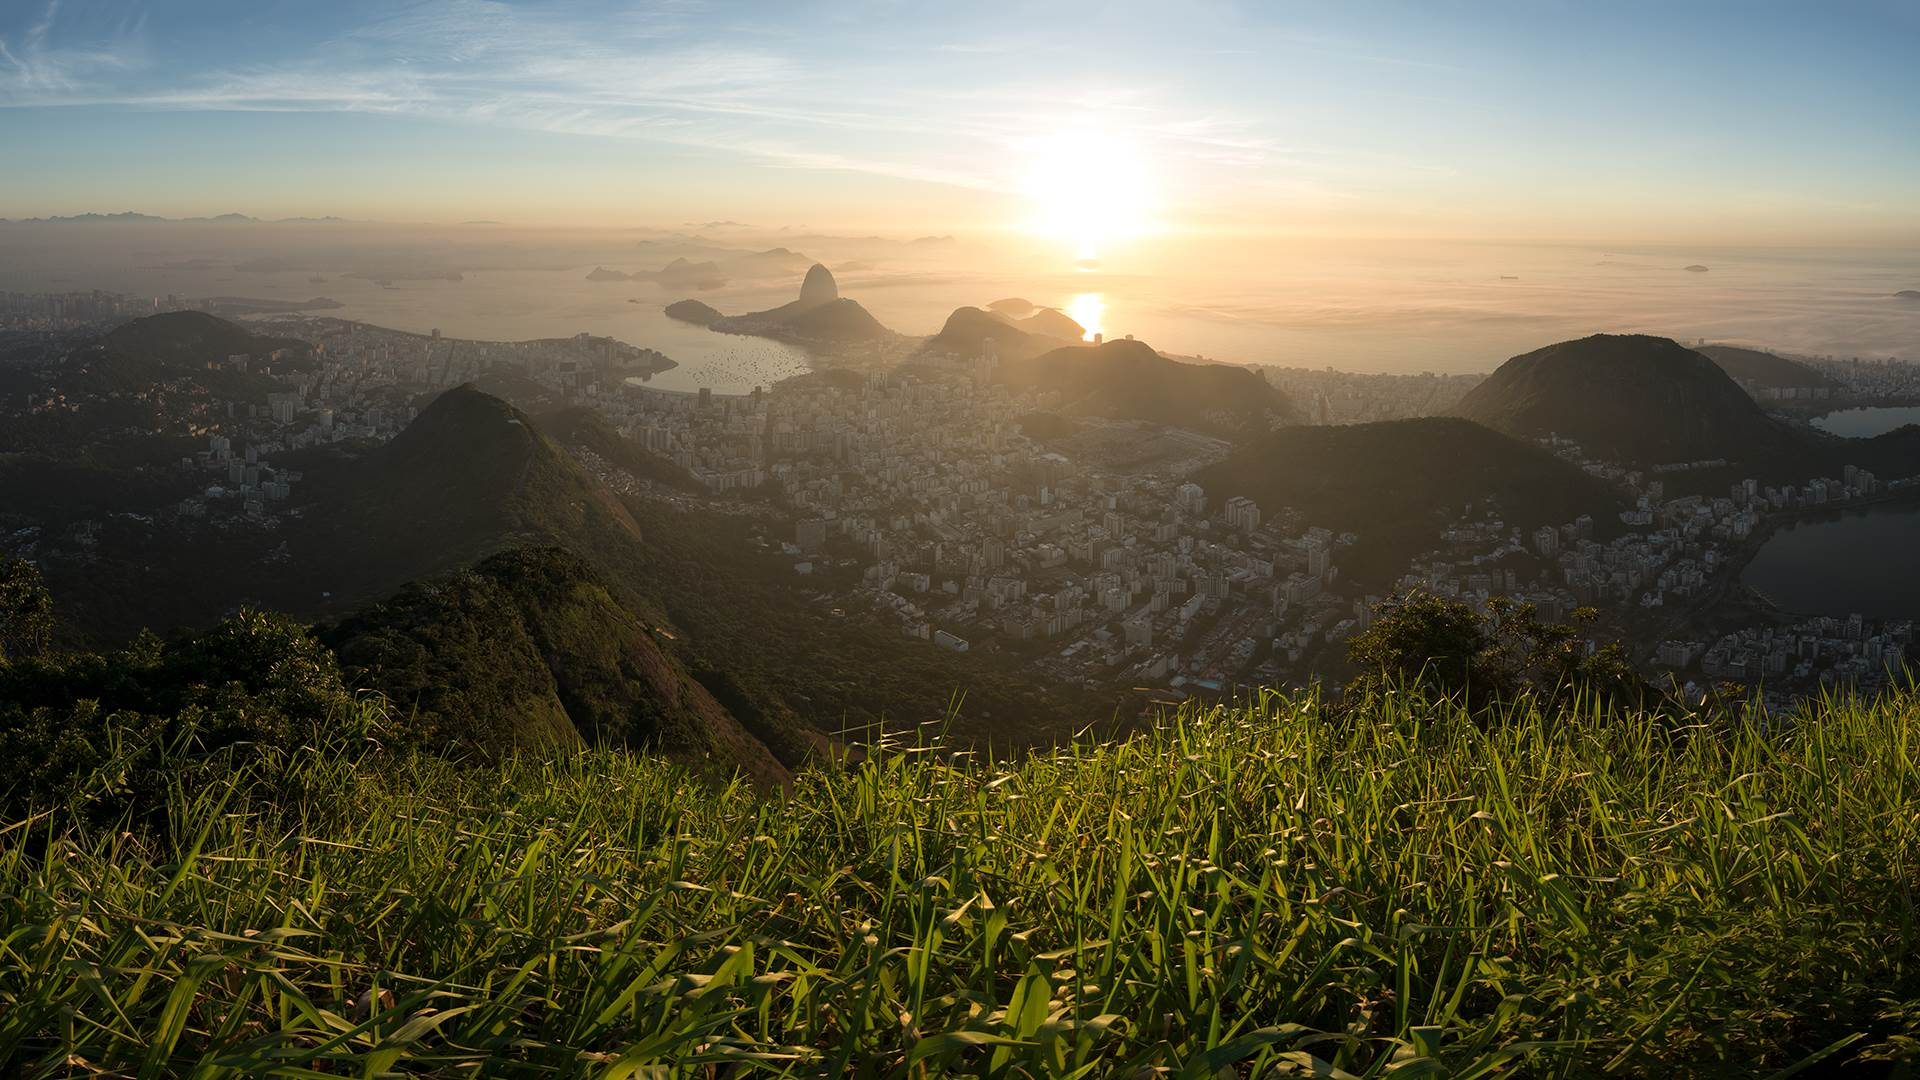
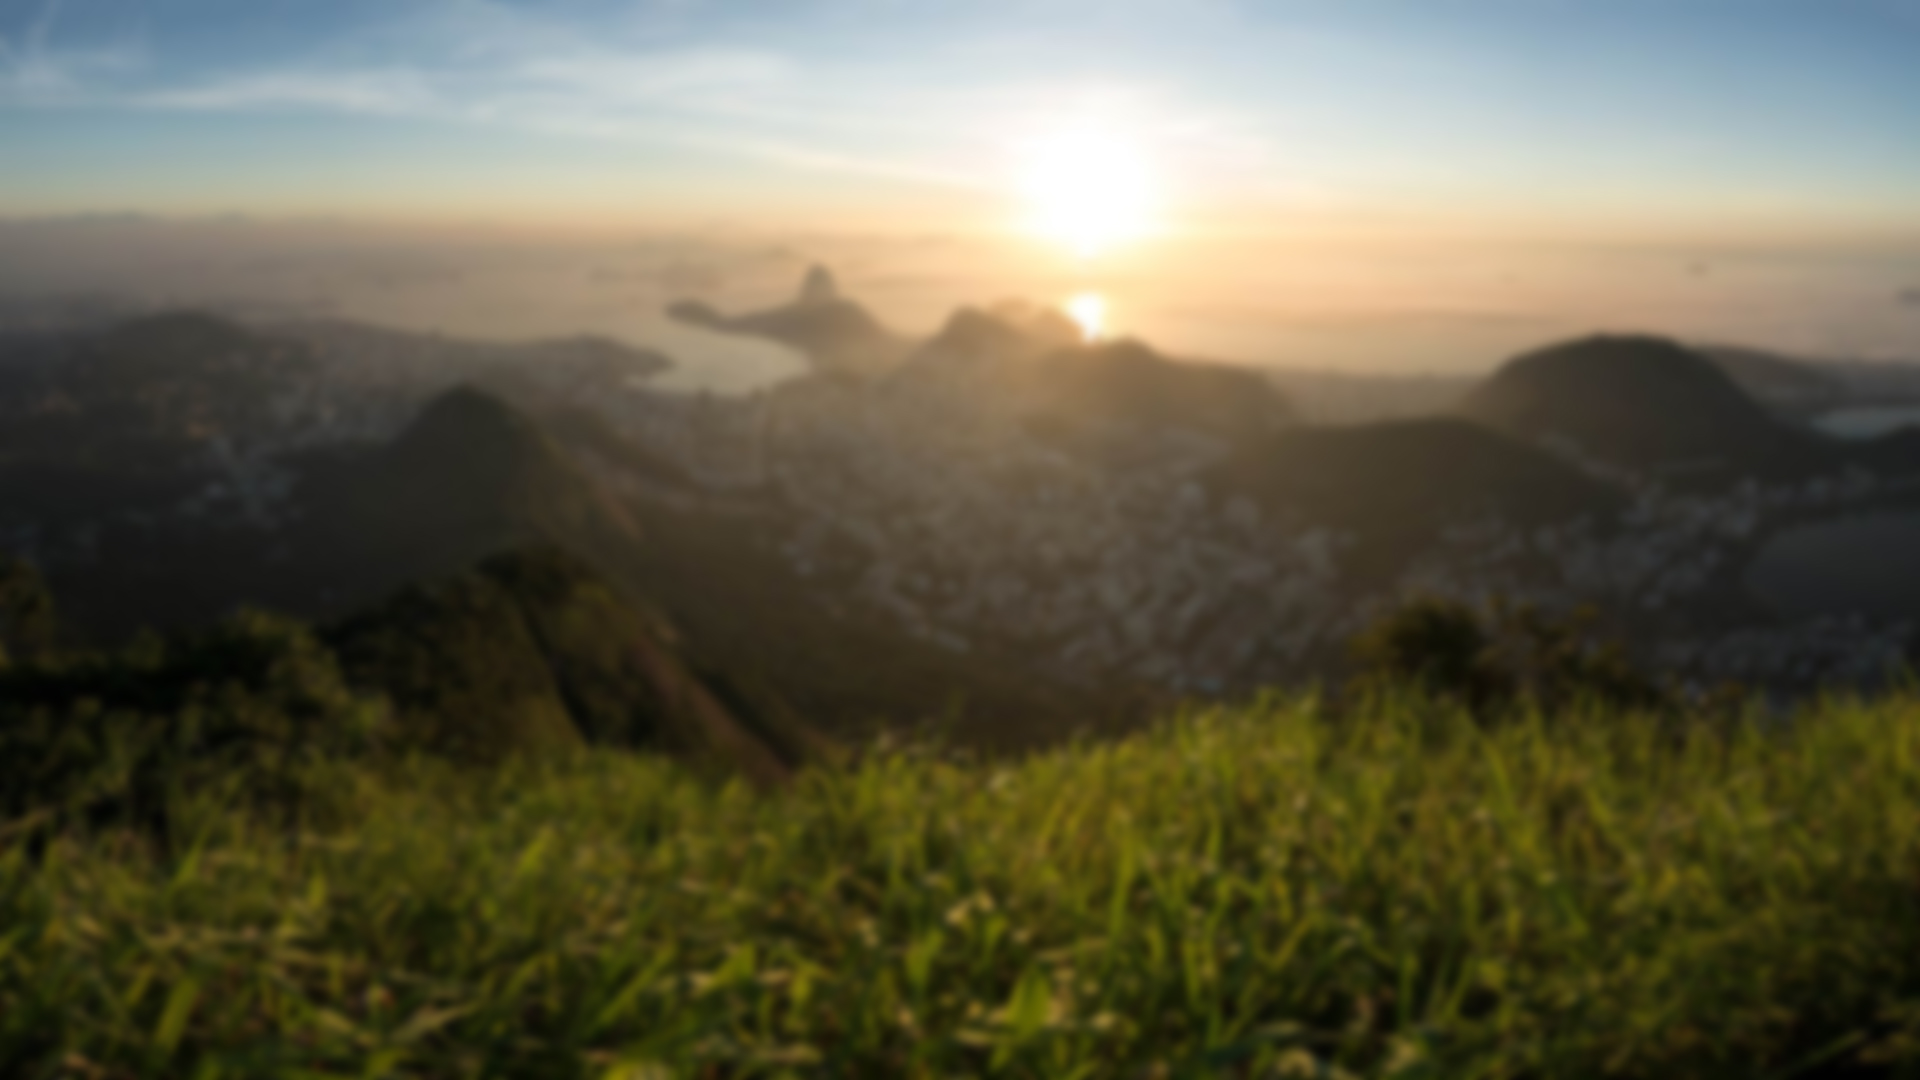
RECO ver. 2

diff --git a/css/main.scss b/css/main.scss
@@ -249,38 +249,38 @@ body {
       justify-content: center;
       align-items: center;
 
-      .bgf::before {
-        //width: 100%;
-        //height: 100%;
-        position: absolute;
-        background: url("../img/0.jpg") no-repeat center;
-        //filter: blur(0) brightness(0.7);
-
-      }
+      //.bgf::before {
+      //  //width: 100%;
+      //  //height: 100%;
+      //  position: absolute;
+      //  background: url("../img/0.jpg") no-repeat center;
+      //  //filter: blur(0) brightness(0.7);
+      //
+      //}
 
       .bgf {
         margin: 0;
         padding: 0;
         width: 100%;
         height: 100%;
-        background: hsla(0, 0%, 0%, 0.2) border-box;
+        background: url("../img/0.jpg") no-repeat center;
         position: absolute;
       }
 
-      .bgf::before {
-        content: '';
-        position: absolute;
-        top: 0;
-        right: 0;
-        bottom: 0;
-        left: 0;
-        margin: -30px;
-        z-index: -1;
-        -webkit-filter: blur(5px);
-        filter: blur(5px);
-        -webkit-transition: all 0.5s;
-        transition: all 0.5s;
-      }
+      //.bgf::before {
+      //  content: '';
+      //  position: absolute;
+      //  top: 0;
+      //  right: 0;
+      //  bottom: 0;
+      //  left: 0;
+      //  margin: -30px;
+      //  z-index: -1;
+      //  -webkit-filter: blur(5px);
+      //  filter: blur(5px);
+      //  -webkit-transition: all 0.5s;
+      //  transition: all 0.5s;
+      //}
 
       img {
         position: absolute;

diff --git a/css/main.css b/css/main.css
@@ -200,31 +200,13 @@ body {
   justify-content: center;
   align-items: center;
 }
-.main .scroll-content-right .screen-item:first-child .bgf::before {
-  position: absolute;
-  background: url("../img/0.jpg") no-repeat center;
-}
 .main .scroll-content-right .screen-item:first-child .bgf {
   margin: 0;
   padding: 0;
   width: 100%;
   height: 100%;
-  background: rgba(0, 0, 0, 0.2) border-box;
+  background: url("../img/0.jpg") no-repeat center;
   position: absolute;
-}
-.main .scroll-content-right .screen-item:first-child .bgf::before {
-  content: "";
-  position: absolute;
-  top: 0;
-  right: 0;
-  bottom: 0;
-  left: 0;
-  margin: -30px;
-  z-index: -1;
-  -webkit-filter: blur(5px);
-  filter: blur(5px);
-  -webkit-transition: all 0.5s;
-  transition: all 0.5s;
 }
 .main .scroll-content-right .screen-item:first-child img {
   position: absolute;
